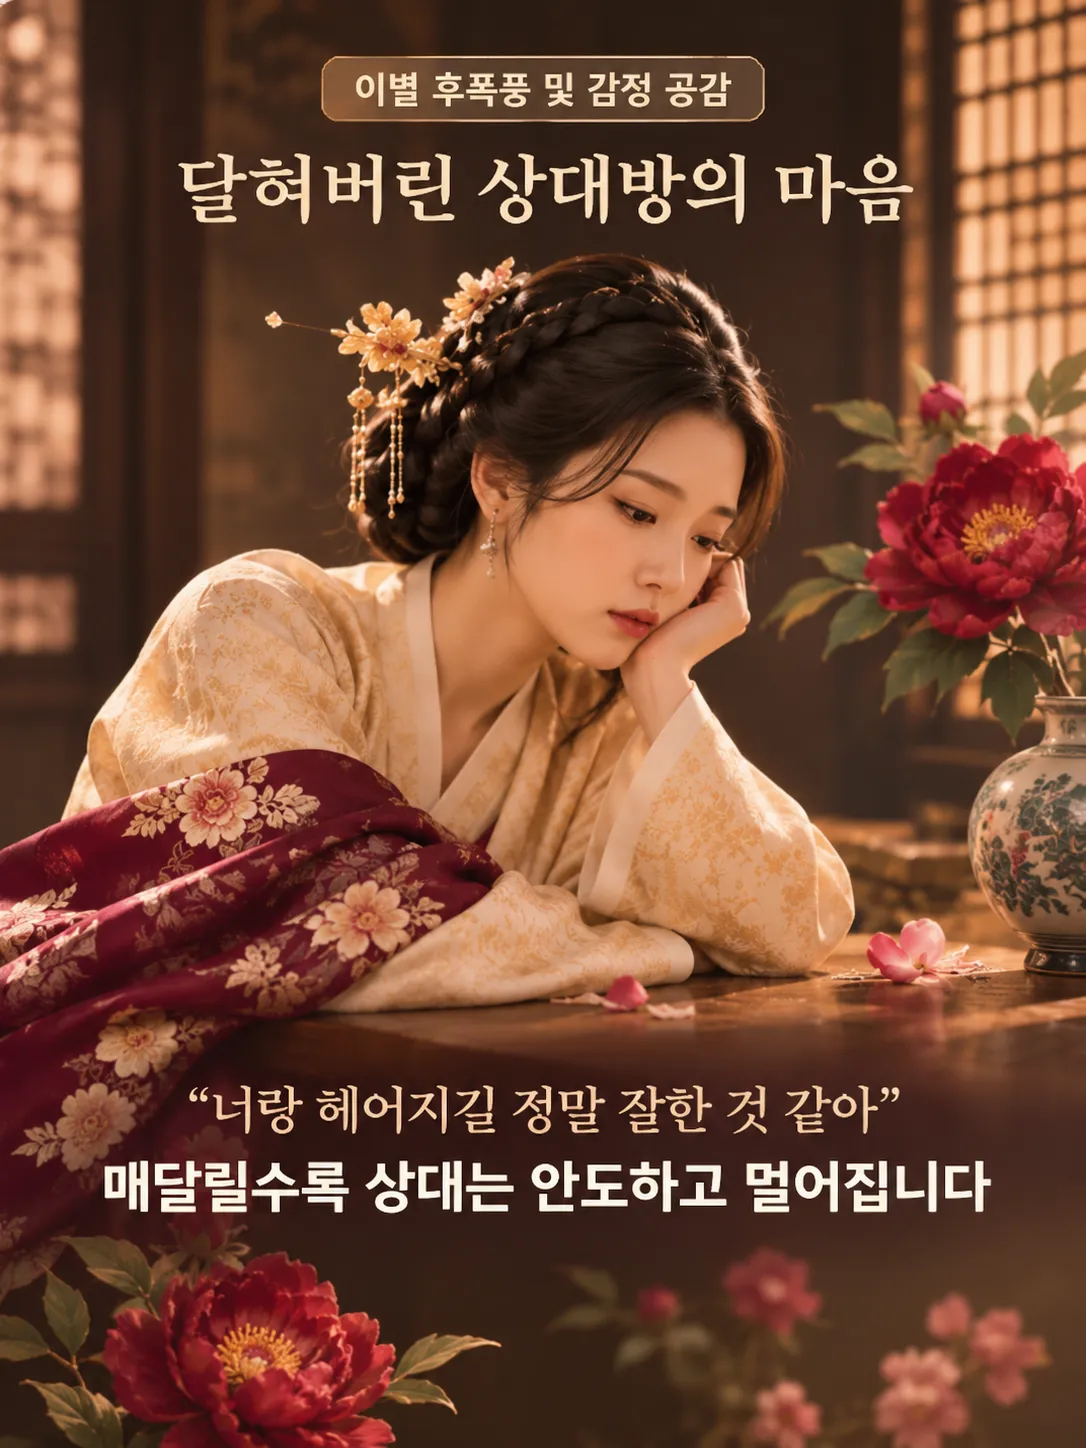
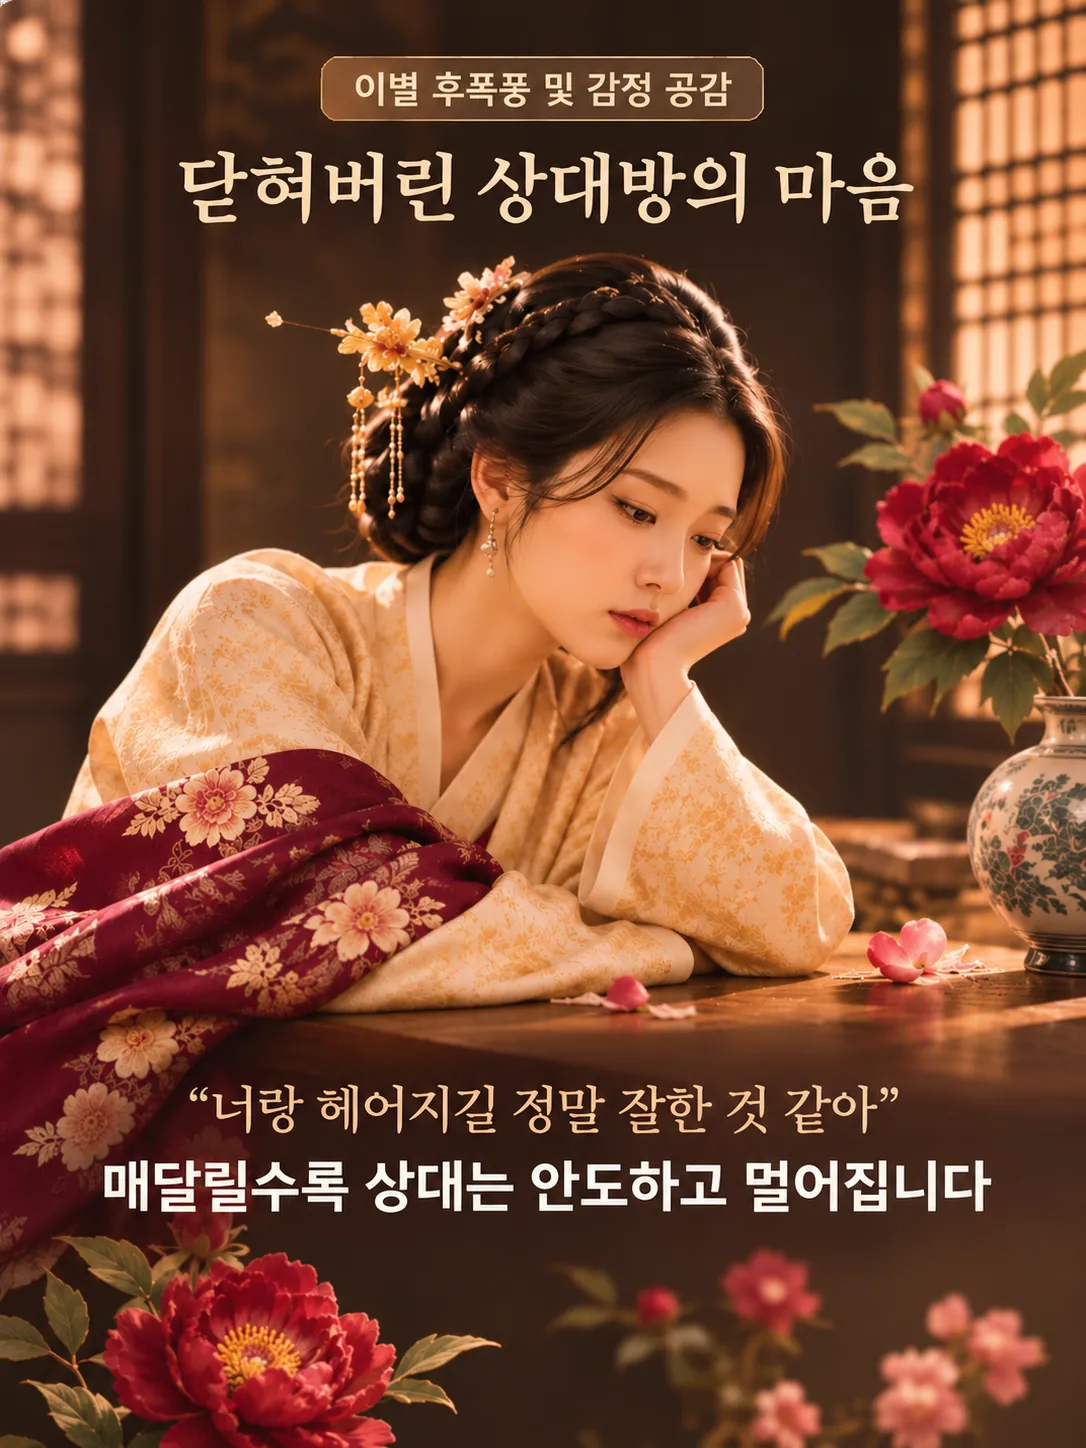
fix(reunion-secret): display author introduction card background image in full without clipping

diff --git a/app/reports/reunion-secret/page.tsx b/app/reports/reunion-secret/page.tsx
@@ -1200,13 +1200,13 @@ export default function ReunionSecretPage() {
             {/* ═══════════════════════════════════════════════════════════════
                 Section 6: 저자 소개 (AUTHOR & MASTER 백도화 - r8.webp 한지 비단 배경 카드)
                ═══════════════════════════════════════════════════════════════ */}
-            <section className="mb-28 w-full max-w-[1280px] mx-auto">
+            <section className="mb-28 w-full max-w-[1200px] mx-auto">
               <Reveal>
                 <div
-                  className="rounded-3xl border border-[#B49A70]/40 p-6 sm:p-8 md:p-12 lg:p-16 relative overflow-hidden shadow-2xl text-left transition-all duration-300 hover:shadow-[0_0_24px_rgba(185,145,91,0.2)]"
+                  className="rounded-xl sm:rounded-2xl border border-[#B49A70]/30 p-6 sm:p-8 md:p-12 lg:p-16 relative overflow-hidden shadow-2xl text-left transition-all duration-300 hover:shadow-[0_0_24px_rgba(185,145,91,0.25)] min-h-[540px] md:min-h-[600px] flex flex-col justify-between"
                   style={{
                     backgroundImage: "url('/image/reunion-secret/r8.webp')",
-                    backgroundSize: 'cover',
+                    backgroundSize: '100% 100%',
                     backgroundPosition: 'center',
                     backgroundRepeat: 'no-repeat',
                     boxShadow: '0 12px 40px rgba(0, 0, 0, 0.45)'
